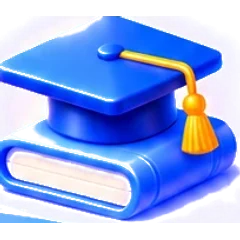
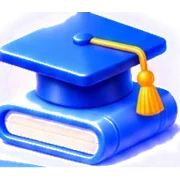
Faster start: app files from the phone's cache, start page opens offline or on slow networks within 1.5 s, Telegram script and font cached, lighter home pictures, long lists draw only what is on screen, v66

diff --git a/public/sw.js b/public/sw.js
@@ -1,25 +1,52 @@
-// Offline cache. Install keeps only what Home and the main screens need, so the first visit is light;
-// the 3D game, its models, music and the PDF libraries are cached the first time they are used.
-const CACHE = "ustozai-v65";
-const FILES = ["./", "index.html", "styles.css", "features.css", "i18n.js", "data.js", "duo.js", "courses.js", "app.js", "profile.js", "news.js",
+// Offline cache, tuned for a fast start:
+// - versioned app files (?v=NN) never change, so they come straight from the phone (no network wait);
+// - the start page is asked from the network but opens from the cache if the network is slower than 1.5 s;
+// - pictures and course data open from the cache at once and refresh quietly in the background;
+// - Telegram's script and the font are kept too; models, music and libraries are kept once downloaded.
+const CACHE = "ustozai-v66";
+const V = CACHE.split("-v")[1];
+const SHELL = ["styles.css", "features.css", "i18n.js", "data.js", "duo.js", "courses.js", "app.js", "profile.js", "news.js"].map((f) => f + "?v=" + V);
+const FILES = ["./", "index.html", ...SHELL,
   "logo.png", "img/hero-compass.webp", "img/ic-courses.webp", "img/ic-game.webp", "img/ic-trophy.webp", "img/ic-zkt.webp", "img/ic-sale.webp", "img/ic-tools.webp",
-  "img/zkt-logo.png", "img/turonbank.png", "img/poyezdbilet24.webp", "img/changan.webp", "img/zk-logo-w.png", "img/tool-cv.webp", "img/tool-dtm.webp", "img/tool-ielts.webp", "img/tool-uni.webp", "img/tool-train.webp"];
-self.addEventListener("install", (e) => { e.waitUntil(caches.open(CACHE).then((c) => c.addAll(FILES))); self.skipWaiting(); });
+  "img/zkt-logo.png", "img/turonbank.png", "img/changan.webp", "img/zk-logo-w.png", "img/tool-cv.webp", "img/tool-dtm.webp", "img/tool-ielts.webp", "img/tool-uni.webp", "img/tool-train.webp", "img/cv-logo.webp"];
+const OUTSIDE = /^https:\/\/(telegram\.org\/js\/|fonts\.googleapis\.com\/|fonts\.gstatic\.com\/)/;
+
+self.addEventListener("install", (e) => { e.waitUntil(caches.open(CACHE).then((c) => c.addAll(FILES)).catch(() => {})); self.skipWaiting(); });
 self.addEventListener("activate", (e) => {
-  e.waitUntil(caches.keys().then((ks) => Promise.all(ks.filter((k) => k !== CACHE).map((k) => caches.delete(k)))));
-  self.clients.claim();
+  e.waitUntil(caches.keys().then((ks) => Promise.all(ks.filter((k) => k !== CACHE).map((k) => caches.delete(k)))).then(() => self.clients.claim()));
 });
-const keep = (req, r) => { if (r && r.ok) { const copy = r.clone(); caches.open(CACHE).then((c) => c.put(req, copy)).catch(() => {}); } return r; };
+
+const keep = (req, r) => { if (r && (r.ok || r.type === "opaque")) { const copy = r.clone(); caches.open(CACHE).then((c) => c.put(req, copy)).catch(() => {}); } return r; };
+// from the cache first; the network only when it is not there yet
+const cacheFirst = (req, loose) => caches.match(req, { ignoreSearch: !!loose }).then((m) => m || fetch(req).then((r) => keep(req, r)));
+// from the cache at once, and a fresh copy is fetched for next time
+const staleWhileRevalidate = (req, e) => caches.match(req, { ignoreSearch: true }).then((m) => {
+  const net = fetch(req).then((r) => keep(req, r)).catch(() => m || Response.error());
+  if (m) { e.waitUntil(net.catch(() => {})); return m; }
+  return net;
+});
+// the start page: the network if it answers within 1.5 s, else the saved copy (and the network one is kept for next time)
+const networkFast = (req, e) => new Promise((resolve) => {
+  let done = false;
+  const finish = (r) => { if (!done && r) { done = true; resolve(r); } };
+  const saved = () => caches.match(req, { ignoreSearch: true }).then((m) => m || caches.match("index.html"));
+  const net = fetch(req, { cache: "no-cache" }).then((r) => keep(req, r));
+  e.waitUntil(net.catch(() => {}));
+  const t = setTimeout(() => saved().then(finish), 1500);
+  net.then((r) => { clearTimeout(t); finish(r); }).catch(() => saved().then((m) => finish(m || Response.error())));
+});
+
 self.addEventListener("fetch", (e) => {
-  if (e.request.method !== "GET" || !e.request.url.startsWith(self.location.origin)) return;
-  // models, music and libraries change only with a new version: from the cache, else downloaded once and kept
-  if (/\/(models|music|lib)\//.test(new URL(e.request.url).pathname)) {
-    e.respondWith(caches.match(e.request, { ignoreSearch: true }).then((m) => m || fetch(e.request).then((r) => keep(e.request, r))));
+  const req = e.request; if (req.method !== "GET") return;
+  const url = new URL(req.url);
+  if (url.origin !== self.location.origin) {
+    if (OUTSIDE.test(req.url)) e.respondWith(url.hostname === "fonts.gstatic.com" ? cacheFirst(req) : staleWhileRevalidate(req, e));
     return;
   }
-  // the app's own files: always ask the server whether they changed (a quick check), so updates show at once
-  e.respondWith(
-    fetch(e.request, { cache: "no-cache" }).then((r) => keep(e.request, r))
-      .catch(() => caches.match(e.request, { ignoreSearch: true }).then((m) => m || caches.match("index.html")))
-  );
+  const path = url.pathname;
+  if (/\/(models|music|lib)\//.test(path)) return e.respondWith(cacheFirst(req, true));
+  if (url.searchParams.has("v")) return e.respondWith(cacheFirst(req));
+  if (req.mode === "navigate" || path.endsWith("/") || path.endsWith(".html")) return e.respondWith(networkFast(req, e));
+  if (/\/img\/|\.json$|\.webp$|\.png$|\.jpg$/.test(path)) return e.respondWith(staleWhileRevalidate(req, e));
+  e.respondWith(staleWhileRevalidate(req, e));
 });

diff --git a/public/index.html b/public/index.html
@@ -6,6 +6,7 @@
   <title>Ustoz AI</title>
   <link rel="preconnect" href="https://fonts.googleapis.com">
   <link rel="preconnect" href="https://fonts.gstatic.com" crossorigin>
+  <link rel="preconnect" href="https://chorsu-share.chorsu-share.workers.dev" crossorigin>
   <link rel="preload" as="style" href="https://fonts.googleapis.com/css2?family=Inter:wght@400;500;600;700;800&display=swap" onload="this.onload=null;this.rel='stylesheet'">
   <!-- the Home pictures start downloading before any script runs -->
   <link rel="preload" as="image" href="img/hero-compass.webp" fetchpriority="high">
@@ -15,20 +16,20 @@
   <link rel="preload" as="image" href="img/ic-sale.webp">
   <link rel="preload" as="image" href="img/ic-tools.webp">
   <link rel="preload" as="image" href="img/turonbank.png">
-  <link rel="stylesheet" href="styles.css?v=65">
-  <link rel="stylesheet" href="features.css?v=65">
+  <link rel="stylesheet" href="styles.css?v=66">
+  <link rel="stylesheet" href="features.css?v=66">
   <script src="https://telegram.org/js/telegram-web-app.js"></script>
 </head>
 <body>
   <div id="app"></div>
   <nav class="tabbar" id="tabbar"></nav>
   <!-- i18n.js adds only the chosen language file; the 3D game (run-audio, run-world, game) loads after Home is shown -->
-  <script src="i18n.js?v=65"></script>
-  <script src="data.js?v=65"></script>
-  <script src="duo.js?v=65"></script>
-  <script src="courses.js?v=65"></script>
-  <script src="app.js?v=65"></script>
-  <script src="profile.js?v=65"></script>
-  <script src="news.js?v=65"></script>
+  <script src="i18n.js?v=66"></script>
+  <script src="data.js?v=66"></script>
+  <script src="duo.js?v=66"></script>
+  <script src="courses.js?v=66"></script>
+  <script src="app.js?v=66"></script>
+  <script src="profile.js?v=66"></script>
+  <script src="news.js?v=66"></script>
 </body>
 </html>

diff --git a/public/app.js b/public/app.js
@@ -337,7 +337,7 @@ function esc(s) { return String(s ?? "").replace(/[&<>"']/g, (c) => ({ "&": "&am
 function fmt(n) { return String(n).replace(/\B(?=(\d{3})+(?!\d))/g, " "); }
 
 if (tg) {
-  tg.ready(); tg.expand();
+  tg.expand();   // tg.ready() comes right after the first screen is drawn, so Telegram never shows a blank page
   try { tg.disableVerticalSwipes(); } catch {}
   try { tg.BackButton.onClick(goBack); } catch {}
   try { const top = tg.contentSafeAreaInset?.top + tg.safeAreaInset?.top; if (top) document.documentElement.style.setProperty("--tg-safe-top", top + "px"); } catch {}
@@ -362,6 +362,7 @@ if ("serviceWorker" in navigator) {
 window.addEventListener("DOMContentLoaded", () => {
   if (!location.hash) location.replace("#/");
   render();
+  try { if (tg) { requestAnimationFrame(() => tg.ready()); setTimeout(() => tg.ready(), 400); } } catch {}
   // opened from a shared section link (t.me/<bot>?startapp=g_cefr): go there and glow it; "?shared=" works in a browser too
   const shared = startParam || new URLSearchParams(location.search).get("shared");
   if (shared && /^[gdu]_[A-Za-z0-9_-]{1,40}$/.test(shared)) setTimeout(() => openShared(shared), 500);

diff --git a/public/features.css b/public/features.css
@@ -820,3 +820,9 @@ details.smooth > *:not(summary) { animation: sdfade .32s ease; }
 .cvj-job.c1 .jm-sc { background: #EDE9FE; color: #6D28D9; }
 .cvj-job.c2 .jm-sc { background: #FFEDD5; color: #C2410C; }
 
+/* ---------- smoothness: long lists draw only the cards on screen ---------- */
+.kc, .zk-group, .sd-row, .sd-uni, .dl-card, .sd-g, .jm-job, .nw-row { content-visibility: auto; contain-intrinsic-size: auto 96px; }
+.zk-group { contain-intrinsic-size: auto 420px; }
+.sd-g[open] { content-visibility: visible; }
+html { -webkit-tap-highlight-color: transparent; }
+
